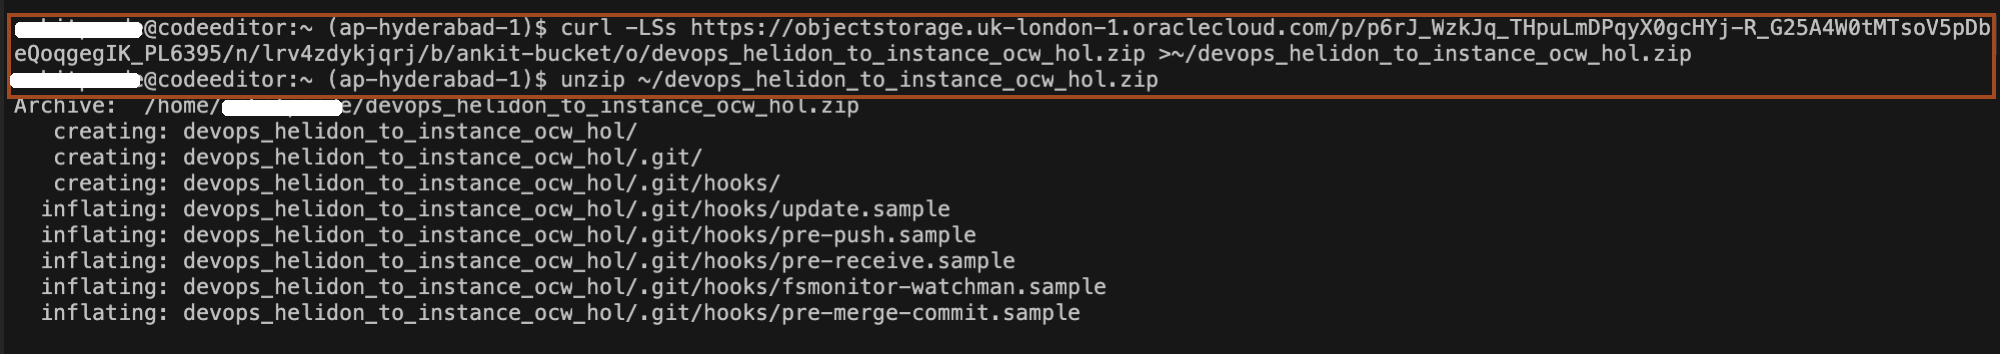
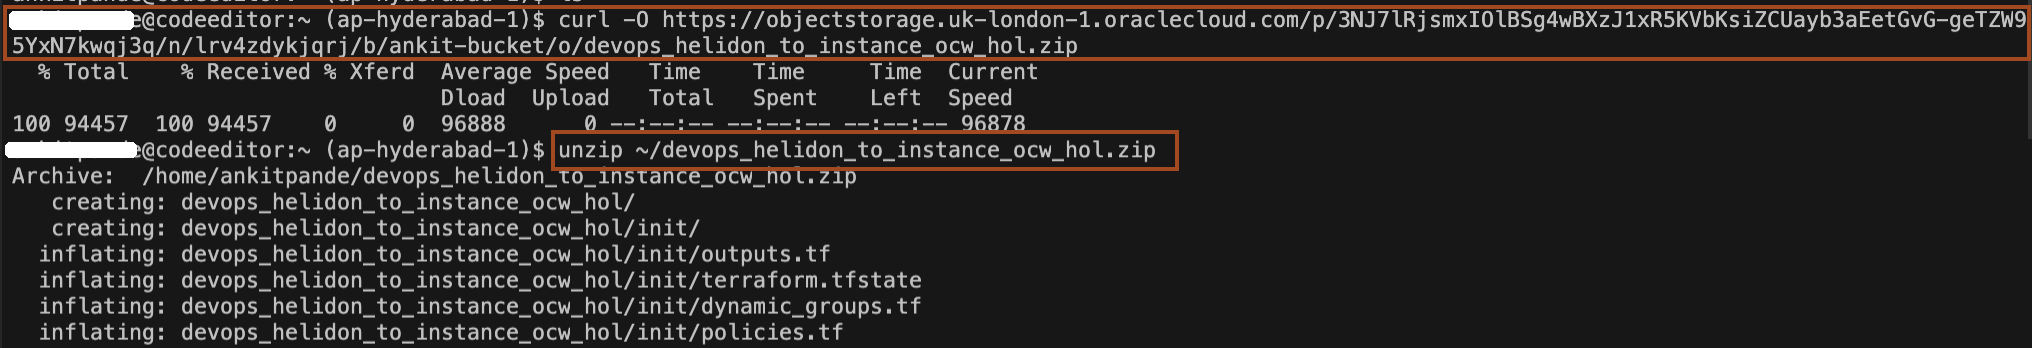
Feedback added

Changed region(s): [[0.0, 0.0, 1.0, 0.977]]

diff --git a/create-application/create-application.md b/create-application/create-application.md
@@ -141,7 +141,7 @@ In this step, we are going to generate an *Authentication Token*, that we will u
     ![copy token](images/copy-token.png)
 
 
-## Task 5: Use git to upload the Helidon application code to the OCI Code repository in your DevOps project
+## Task 5: Sync up the Helidon application project to the OCI Code repository in your DevOps project
 
 1. Open a new terminal, Copy and paste the following command to navigate to the *oci-mp* directory.
     ```bash
@@ -176,59 +176,61 @@ In this step, we are going to generate an *Authentication Token*, that we will u
     <copy>git pull origin main</copy>
     ```
 
-7. This will prompt for a username and password. Use <tenancy name>/<username> for the username and OCI user **auth token** that was generated at **task 4** for the password.
+7. This will prompt for a username and password. Use **tenancy name**/**username** for the username and OCI user **auth token** that was generated at **task 4** for the password.
     ![git username](images/git-username.png)
     ![git password](images/git-password.png)
 
 8. You will have output similar to the following. If not, please check that you have run every git command correctly.
     ![git pull sync](images/git-pull-sync.png)
 
-9. **Stage** all the files for the git commit.
+
+
+## Task 6: Push the Helidon application code and trigger the DevOps pipeline
+
+1. **Stage** all the files for the git commit.
     ```bash
     <copy>git add .
     git status</copy>
     ```
 
-10. Perform the first **commit**.
+2. Perform the first **commit**.
     ```bash
     <copy>git commit -m "Helidon oci-mp first commit"</copy>
     ```
 
-## Task 6: Trigger the DevOps pipeline
-
-1. **Push** the changes to the remote repository.
+3. **Push** the changes to the remote repository.
     ```bash
     <copy>git push -u origin main</copy>
     ```
     > This will trigger the DevOps to start the build pipeline.
 
-2. Open the [Cloud Console](https://cloud.oracle.com/) in new tab, Click *Hamburger menu* -> *Developer Services* -> *Projects* under **DevOps**.
+4. Open the [Cloud Console](https://cloud.oracle.com/) in new tab, Click *Hamburger menu* -> *Developer Services* -> *Projects* under **DevOps**.
     ![devops project](images/devops-project.png)
 
-3. Select the compartment, which you have created in **Lab 1** and then Click *devops-project-helidon-ocw-hol-string* to open the **DevOps Project**.
+5. Select the compartment, which you have created in **Lab 1** and then Click *devops-project-helidon-ocw-hol-string* to open the **DevOps Project**.
     ![select compartment](images/select-compartment.png)
 
-4. Under *Latest build history*, you will see the *Runs* and Status as *Accepted/In Progress*. Click on the latest runs as shown below.
+6. Under *Latest build history*, you will see the *Runs* and Status as *Accepted/In Progress*. Click on the latest runs as shown below.
     ![build history](images/build-history.png)
 
-5. Once the build pipeline completed all three stages, you will see output as shown below. You can click the arrow just before the stages, to view, what action they are performing. This action, we have defind in *`build_spec.yaml`* file in *oci-mp* folder.
+7. Once the build pipeline completed all three stages, you will see output as shown below. You can click the arrow just before the stages, to view, what action they are performing. This action, we have defind in *`build_spec.yaml`* file in *oci-mp* folder.
     ![build run first](images/build-run-first.png)
 
-6. In Build run progress, In the third stage, click on **Three dots** and then click **View deployment** as shown below. This will open the **deployment pipeline**. 
+8. In Build run progress, In the third stage, click on **Three dots** and then click **View deployment** as shown below. This will open the **deployment pipeline**. 
     ![view deployment](images/view-deployment.png)
 
-7. Here you can see *Deployment Progress*. Once you have the deployment pipeline completed, you will see the output as shown below. You can click the arrow just before the stage, to view, what action they are performing. This action, we have defind in *`deployment_spec.yaml`* file in *oci-mp* folder.
+9. Here you can see *Deployment Progress*. Once you have the deployment pipeline completed, you will see the output as shown below. You can click the arrow just before the stage, to view, what action they are performing. This action, we have defind in *`deployment_spec.yaml`* file in *oci-mp* folder.
     ![deployment run](images/deployment-run.png)
 
     > This successfully deploys the Helidon application to **Compute instances** in OCI.
 
-8. To view the logs of the deployment pipeline, click on **Three dots** near to deployment stage and click **View details** as shown below.
+10. To view the logs of the deployment pipeline, click on **Three dots** near to deployment stage and click **View details** as shown below.
     ![view logs](images/view-logs.png)
 
-9. Scroll down the logs and verify the **JDK flavour**, It should be **Open JDK** as shown below.
+11. Scroll down the logs and verify the **JDK flavour**, It should be **Open JDK** as shown below.
     ![open jdk](images/open-jdk.png)
 
-    > As part of **Lab 4**, we will replace Open JDK with Oracle JDK. These logs verify that you are currently using **Open JDK 20**. 
+    > As part of **Lab 4**, we will replace Open JDK with Oracle JDK. These logs verify that you are currently using **Open JDK 20** with Virtual Threads. 
 
 You may now **proceed to the next lab.**
 

diff --git a/provision-infrastructure/provision-infrastructure.md b/provision-infrastructure/provision-infrastructure.md
@@ -30,7 +30,7 @@ In this lab, you will:
 3. Copy and paste the following command to the terminal to download the source code. This source code contains the terraform scripts which create the OCI resources required for this workshop. 
 
     ```bash
-    <copy>curl -LSs https://objectstorage.uk-london-1.oraclecloud.com/p/3NJ7lRjsmxIOlBSg4wBXzJ1xR5KVbKsiZCUayb3aEetGvG-geTZW95YxN7kwqj3q/n/lrv4zdykjqrj/b/ankit-bucket/o/devops_helidon_to_instance_ocw_hol.zip >~/devops_helidon_to_instance_ocw_hol.zip
+    <copy>curl -O https://objectstorage.uk-london-1.oraclecloud.com/p/3NJ7lRjsmxIOlBSg4wBXzJ1xR5KVbKsiZCUayb3aEetGvG-geTZW95YxN7kwqj3q/n/lrv4zdykjqrj/b/ankit-bucket/o/devops_helidon_to_instance_ocw_hol.zip
     unzip ~/devops_helidon_to_instance_ocw_hol.zip</copy>
     ```
 ![download source code](images/download-sourcecode.png)
@@ -41,7 +41,7 @@ In this lab, you will:
 5. Select the *`devops_helidon_to_instance_ocw_hol`* in your home directory and click *Open*.
 ![open devops](images/open-devops.png)
 
-6. Click the file name *terraform.tfvars* inside the *init* folder of *`devops_helidon_to_instance_ocw_hol`* as shown. You can see we have four variables (**`tenancy_ocid`**, **region**, **`compartment_ocid`**, **`user_ocid`** ) for which we need to provide the values. 
+6. Click the file name *terraform.tfvars* inside the *`devops_helidon_to_instance_ocw_hol`* folder as shown. You can see we have four variables (**`tenancy_ocid`**, **region**, **`compartment_ocid`**, **`user_ocid`** ) for which we need to provide the values. 
 ![open tfvars](images/open-tfvars.png)
 
 7. In your browser, open a **new tab** for [Cloud Console](https://cloud.oracle.com/). We will use this tab to get the value of the above variables.
@@ -52,7 +52,7 @@ In this lab, you will:
 9. Click *Copy* to copy the **OCID** for tenancy and paste it in *terraform.tfvars* file as the value of *`tenancy_ocid`*.
 ![copy tenancy ocid](images/copy-tenancyocid.png)
 
-10. You can find your home region name in the Cloud console as shown below. Then open the [URL](https://docs.oracle.com/en-us/iaas/Content/Registry/Concepts/registryprerequisites.htm#Availab) to find endpoints of this region. For example, in my case, *India South(Hyderabad)* is the home region and its endpoint is *ap-hyderabad-1*. Paste the end point of your home region in *terraform.tfvars* file as the value of *region*.
+10. You can find your home region name in the Cloud console as shown below. Then open the [ENDPOINTS URL](https://docs.oracle.com/en-us/iaas/Content/Registry/Concepts/registryprerequisites.htm#Availab) to find endpoints of this region. For example, in my case, *India South(Hyderabad)* is the home region and its endpoint is *ap-hyderabad-1*. Paste the end point of your home region in *terraform.tfvars* file as the value of *region*.
 ![home region](images/home-region.png)
 ![end points](images/end-points.png)
 
@@ -93,16 +93,12 @@ The goal of this task is to prepare the environment for the DevOps setup by crea
     <copy>cd ~/devops_helidon_to_instance_ocw_hol/main/</copy>
     ```
 
-2. Copy and paste the following command to update the *terraform.tfvars* inside *main* folder. This will update the value of **`tenancy_ocid`**, **region**, and **`user_ocid`**.
-    ```bash
-    <copy>cp ../init/terraform.tfvars .</copy>
-    ```
-3. Copy and paste the following command to update the **compartment_ocid** of a newly created compartment in  *terraform.tfvars* inside *main* folder. 
+2. Copy and paste the following command to update the **compartment_ocid** of a newly created compartment in  *terraform.tfvars* inside *`devops_helidon_to_instance_ocw_hol`* folder. 
     ```bash
     <copy>../utils/update_compartment.sh</copy>
     ```
 
-4. Copy and paste the following command in the terminal to provision all the DevOps resources.
+3. Copy and paste the following command in the terminal to provision all the DevOps resources.
     ```bash
     <copy>terraform init
     terraform plan
@@ -130,10 +126,10 @@ The goal of this task is to prepare the environment for the DevOps setup by crea
         * **OCI Compute Instance** that opens port 8080 from the firewall. This is where the application will be eventually deployed.
     * **OCI Virtual Cloud Network (VCN) with Security List** containing an Ingress that opens port 8080. Port 8080 is where the Helidon application will be accessed from. The OCI VCN will be used by the OCI Compute Instance for its network needs.
 
-5. Diagram below depicts how the DevOps setup will work:
+4. Diagram below depicts how the DevOps setup will work:
     ![devops diagram](images/devops-diagram.png)
 
-6. You will get a similar output as shown below. You need to copy these values and paste them into a text file. So we can use it later in the workshop.
+5. You will get a similar output as shown below. You need to copy these values and paste them into a text file. So we can use it later in the workshop.
     ![tf output](images/tf-output.png)
 
 

diff --git a/os-support/os-support.md b/os-support/os-support.md
@@ -17,7 +17,7 @@ In this lab, you will:
 
 * An Oracle Free Tier(Trial), Paid or LiveLabs Cloud Account
 
-## Task 1: Modify the Helidon application for  Obejct storage integration
+## Task 1: Modify the Helidon application for Object Storage integration
 
 1. In **Code Editor**, click the file name **`pom.xml`** under *~/oci-mp/server/* to open it and add the **Object Storage OCI SDK** dependency inside the **dependencies** clause as shown below.
     ```bash
@@ -115,7 +115,7 @@ In this lab, you will:
     import com.oracle.bmc.objectstorage.responses.GetObjectResponse;</copy>
     ```
 
-## Task 2: Trigger the DevOps pipeline
+## Task 2: Push the Helidon application code change and trigger the DevOps pipeline
 
 1. Copy and paste the following command in the terminal **to commit and push the change**.
     ```bash
@@ -130,7 +130,7 @@ In this lab, you will:
 2. Wait until the **DevOps lifecycle** is completed by monitoring the build and deployment pipeline logs.
     ![deployment run](images/deployment-run.png)
 
-## Task 3: Verify the successful Object Strogate integration
+## Task 3: Verify the successful Object Storage integration
 
 Test by using curl and check that a new **hello.txt** object has been added to the **bucket**. Validate that the size of the object is the same as the size of the greeting word. For example, if the greeting word is *Hello*, then the size should be **5**. If the greeting word is *Hola*, then the size should be **4**.
 

diff --git a/observability-management/observability-management.md b/observability-management/observability-management.md
@@ -71,7 +71,7 @@ In this task, we validate **OCI logging SDK** integration to push messages to th
 1. In Cloud console, Click *Hamburger menu* -> *Observability & Management* -> *Logs*. 
     ![logs menu](images/logs-menu.png)
 
-2. Select the correct compartment and then click **devops-log-helidon-ocw-hol** as shown below.
+2. Select the correct compartment, and then select the *`app-log-group-helidon-ocw-hol`* as **Log Group** then click **app-log-helidon-ocw-hol** as shown below.
     ![select compartment](images/select-compartment.png)
 
 3. In **Filter by time**, select **Today** from dropdown and you can see the application logs. 

diff --git a/intro/intro.md b/intro/intro.md
@@ -4,8 +4,6 @@
 
 In this workshop, you will learn how to build, maintain, and upgrade a **Helidon microservice application** from start to finish using the **OCI DevOps service**. We'll demonstrate how to accelerate and streamline the entire lifecycle management process, utilizing JDK20 with Virtual Threads technology.
 
-*IT IS IMPORTANT TO GO THROUGH THE **"MANDATORY TO BE READ"** SECTION*.
-
 Estimated time: 5 minutes
 
 ### Objectives
